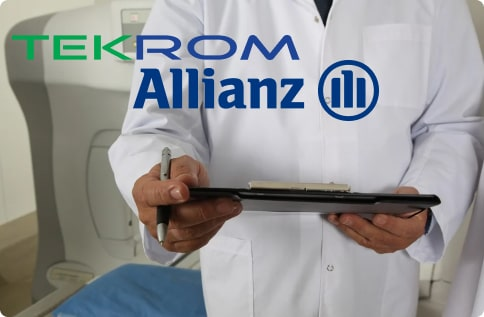
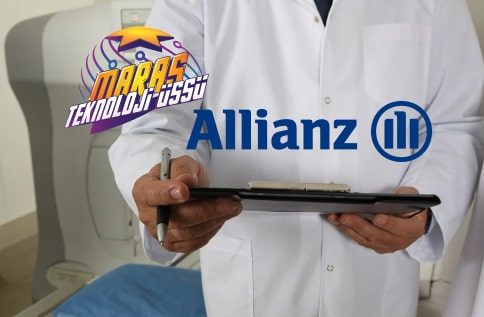
from tekrom to techbase and image changement

diff --git a/demo.html b/demo.html
@@ -143,7 +143,7 @@
                                         <span class="title-line">Ekonomik</span>
                                         <span class="title-line">Yaşam</span>
                                         <p class="slide-desc">
-                                            Çevre illere ve ülke geneline göre Kahramanmaraş'ta yaşam daha kolay ve uygundur. <a href="https://www.numbeo.com/cost-of-living/in/Kahramanmaras-Turkey">İnceleyiniz</a>
+                                            Çevre illere ve ülke geneline göre Kahramanmaraş'ta yaşam daha kolay ve uygundur. <a href="https://www.numbeo.com/cost-of-living/in/Kahramanmaras-Turkey" class="text-secondary text-decoration-underline" rel="nofollow">İnceleyiniz</a>
                                         </p>
                                     </div>
                                 </div>
@@ -246,7 +246,7 @@
                     <div class="text-center py-5">
                         <span class="fs-2 fw-500">Doğru Yerdesiniz</span>
                         <p class="fs-6 text-secondary">
-                            Kahramanmaraş’ta yazılan kodlar Silikon Vadisi’nden dünyaya açılıyor.
+                            Kahramanmaraş’ta geliştirilen yazılımlar Silikon Vadisi üzerinden dünyaya açılıyor.
                         </p>
                     </div>
                     <div class="row pb-5 maras-tech-bas-three">
@@ -869,8 +869,7 @@
                                data-caption="<div class='text-center col-12 col-md-6 mx-auto'>
                                             Doğu akdeniz bölgesinin en önemli teknoloji üssü olan ilimiz, bölgenin
                                             silikon vadisi olma yolundadır.
-                                            E-ticaretten veri madenciliğine kadar bir çok teknoloji TEKROM bünyesinde
-                                            Kahramanmaraş’ta üretilmektedir.
+                                            E-ticaretten veri madenciliğine kadar bir çok teknoloji Maraş Teknoloji Üssü'nde üretilmektedir.
                                             </div>">
                                 <div class="rounded-3 shadow-soft content-card my-3">
                                     <div class="content-image">
@@ -885,8 +884,7 @@
                                         <p class="mb-0 text-center text-secondary">
                                             Doğu akdeniz bölgesinin en önemli teknoloji üssü olan ilimiz, bölgenin
                                             Silikon Vadisi olma yolundadır.
-                                            E-ticaretten veri madenciliğine kadar bir çok teknoloji TEKROM bünyesinde
-                                            Kahramanmaraş’ta üretilmektedir.
+                                            E-ticaretten veri madenciliğine kadar bir çok teknoloji Maraş Teknoloji Üssü'nde üretilmektedir.
                                         </p>
                                         <strong class="read-more">Devamını Oku...</strong>
                                     </div>
@@ -1155,7 +1153,7 @@
                                 +3000 site, +250 mobil uygulama (+2M mobil kullanıcı)
                             </div>
                             <div class="mb-2 rounded-bottom p-3 text-center shadow-one-side-only">
-                                TEKROM ekosistemi içerisinde faaliyet gösteren 20 start-up kıvamında yazılım ürünü,
+                                Maraş Teknoloji Üssü ekosistemi içerisinde faaliyet gösteren +20 start-up kıvamında yazılım ürünü,
                                 +3000 e-ticaret sitesi, +250 mobil uygulama ve +2.000.000 mobil kullanıcı ile bölgenin
                                 en büyük yazılım üreticisi olarak <strong>Kahramanmaraş</strong>'ta teknoloji üssünü
                                 konumlandırmıştır.
@@ -1613,8 +1611,7 @@
                                                 <span class="d-block fs-4 fw-500 mb-5">Eğitim ve Teknoloji</span>
                                                 <p>
                                                     Kahramanmaraş Sütçü İmam Üniversitesi ve İstiklal Üniversitesi'ndeki
-                                                    Bilgisayar Mühendisliği okuyan öğrenciler ve TEKROM gibi teknoloji
-                                                    firmalarında çalışan personeller sayesinde ilimiz bölgenin teknoloji
+                                                    Bilgisayar Mühendisliği okuyan öğrenciler ve Maraş Teknoloji Üssü'nde çalışan personeller sayesinde ilimiz bölgenin teknoloji
                                                     üretim merkezi haline gelmiştir.
                                                 </p>
                                             </div>
@@ -1950,7 +1947,7 @@
                                             <img loading="lazy"
                                                  src="assets/images/content/home/technology/tech-loading.svg"
                                                  data-src="assets/images/content/home/technology/ofis-1-min.jpg"
-                                                 alt="TEKROM ofis"
+                                                 alt="Maraş Teknoloji Üssü Ofis"
                                                  class="lazyload w-100 object-fit-cover rounded-3 shadow-one-side-only">
                                         </a>
                                     </div>
@@ -1959,7 +1956,7 @@
                                            data-fancybox="future-of-technology">
                                             <img loading="lazy" src="assets/images/content/home/technology/tech-loading.svg"
                                                  data-src="assets/images/content/home/technology/ofis-2-min.jpg"
-                                                 alt="TEKROM ofis"
+                                                 alt="Maraş Teknoloji Üssü Ofis"
                                                  class="lazyload w-100 object-fit-cover rounded-3 shadow-one-side-only">
                                         </a>
                                     </div>
@@ -1969,7 +1966,7 @@
                                             <img loading="lazy"
                                                  src="assets/images/content/home/technology/tech-horizontal-image-loading.svg"
                                                  data-src="assets/images/content/home/technology/ofis-3-min.jpg"
-                                                 alt="TEKROM ofis"
+                                                 alt="Maraş Teknoloji Üssü Ofis"
                                                  class="lazyload w-100 object-fit-cover rounded-3 shadow-one-side-only">
                                         </a>
                                     </div>
@@ -1981,7 +1978,7 @@
                                             <img loading="lazy"
                                                  src="assets/images/content/home/technology/tech-vertical-image-loading.svg"
                                                  data-src="assets/images/content/home/technology/ofis-4-min.jpg"
-                                                 alt="TEKROM ofis"
+                                                 alt="Maraş Teknoloji Üssü Ofis"
                                                  class="lazyload w-100 object-fit-cover rounded-3 shadow-one-side-only">
                                         </a>
                                     </div>
@@ -2004,9 +2001,9 @@
                                     <div class="life-in-marasteknolojiussu-information">
                                         <span class="life-in-marasteknolojiussu-title">Doğum Gününde İzin</span>
                                         <p class="life-in-marasteknolojiussu-explanation">
-                                            TEKROM çatısı altında bulunan a’dan z’ye herkes doya doya eğlensin ve ailesi
+                                            Maraş Teknoloji Üssü'nde bulunan a’dan z’ye herkes doya doya eğlensin ve ailesi
                                             ile mutlu bir gün geçirsin diye doğum gününde çalışma yasağı vardır. <br>
-                                            Tekromda çalışan herkes doğum gününde izinlidir ve kendine tatil ilan etme
+                                            Maraş Teknoloji Üssü'nde çalışan herkes doğum gününde izinlidir ve kendine tatil ilan etme
                                             yetkisi verilmektedir.
                                         </p>
                                     </div>
@@ -2070,7 +2067,7 @@
                                         <p class="life-in-marasteknolojiussu-explanation">
                                             Çayımız ve kahvemiz ofisimize gelen herkesi her sabah karşılar.
                                             Fakat bir gün remote çalışmak isterseniz dert etmeyin. İnternetin çektiği
-                                            her yer TEKROM çalışanları için ofistir. <br> Fakat ofisimizdeki internetin
+                                            her yer Maraş Teknoloji Üssü çalışanları için ofistir. <br> Fakat ofisimizdeki internetin
                                             hızına ve ofis imkanlarına alışınca eminiz ki evden çalışmak istemeyeceksiniz.
                                         </p>
                                     </div>
@@ -2089,7 +2086,7 @@
                                     <div class="life-in-marasteknolojiussu-information">
                                         <span class="life-in-marasteknolojiussu-title">Hızlı ve Çoklu İnternet</span>
                                         <p class="life-in-marasteknolojiussu-explanation">
-                                            Tekromda herşey gibi internet de yedeklendirilmiş ve renklendirilmiştir.
+                                            Maraş Teknoloji Üssü'nde herşey gibi internet de yedeklendirilmiş ve renklendirilmiştir.
                                             Farklı platformlardan sağlanan internet sayesinde hem çok hızlı internete
                                             sahip olurken hem de çoklu sunulan internet sayesinde veri akışının
                                             sürekliği sağlanmaktadır.
@@ -2110,7 +2107,7 @@
                                     <div class="life-in-marasteknolojiussu-information">
                                         <span class="life-in-marasteknolojiussu-title">10 Ofis</span>
                                         <p class="life-in-marasteknolojiussu-explanation">
-                                            TEKROM çalışanlarının rahat bir ortamda çalışabilmeleri için 10’un üzerinde
+                                            Maraş Teknoloji Üssü çalışanlarının rahat bir ortamda çalışabilmeleri için 10’un üzerinde
                                             ofis konforlu bir ortam olarak hazırlanmıştır. Oluşturulan konfor sayesinde
                                             kışın sıcak yazın serin ofislerimizde kod yazmaktan kendinizi
                                             alamayacaksınız.
@@ -2132,7 +2129,7 @@
                                         <span class="life-in-marasteknolojiussu-title">8 Toplantı Salonu</span>
                                         <p class="life-in-marasteknolojiussu-explanation">
                                             Toplantıların, derslerin ve sunumların sorunsuz bir şekilde işleyebilmesi
-                                            için TEKROM çatısı altında dev televizyon, kablolu
+                                            için Maraş Teknoloji Üssü çatısı altında dev televizyon, kablolu
                                             ve kablosuz internetleriyle 8 adet toplantı salonu  kullanıma açık vaziyettedir.
                                         </p>
                                     </div>
@@ -2151,7 +2148,7 @@
                                     <div class="life-in-marasteknolojiussu-information">
                                         <span class="life-in-marasteknolojiussu-title">+700m<sup>2</sup> Tesis</span>
                                         <p class="life-in-marasteknolojiussu-explanation">
-                                            TEKROM Anadolu Ar-Ge Merkezi’nde 120’nin üzerinde çalışanımızın daha güzel
+                                            Maraş Teknoloji Üssü'nde 120’nin üzerinde çalışanımızın daha güzel
                                             ve konforlu bir alanda vakit geçirebilmesi için 700m<sup>2</sup>’den daha fazla bir
                                             alan çalışma ortamı olarak hizmete sunulmuştur. <br>
                                              Mini golf sahası, kahve
@@ -2471,7 +2468,7 @@
                     <div class="container mt-5 pt-5 text-center awards-area-text">
                         <h6 class="fs-4 text-white">ÖDÜLLER</h6>
                         <p class="mb-0 pb-5 border-5 border-white border-start border-end border-top rounded-top pt-5 text-white">
-                            TEKROM Teknoloji A.Ş. Deloitte Fast 50 yarışmasında 2013-2020 yılları arasında 7 kez en
+                            Maraş Teknoloji Üssü firmaları Deloitte Fast 50 yarışmasında 2013-2020 yılları arasında 7 kez en
                             hızlı yükselen teknoloji firması arasına girmeyi başarmıştır.
                         </p>
                     </div>
@@ -2586,7 +2583,7 @@
 
             <section>
                 <div class="container maras-tech-offices my-5" id="iletisim">
-                    <div class="accordion" id="accordionTekromContact">
+                    <div class="accordion" id="accordionTechBaseContact">
                         <div class="accordion-item">
                             <h2 class="accordion-header">
                                 <button class="accordion-button collapsed" type="button" data-bs-toggle="collapse"
@@ -2601,7 +2598,7 @@
                                        data-caption="Esentepe Mahallesi, Haberler Sk. No:13 ŞİŞLİ / İSTANBUL">
                                         <img loading="lazy" src="assets/images/default-content-image.png"
                                              data-src="assets/images/content/home/offices/genel-mudurluk.jpg"
-                                             class="lazyload img-fluid rounded-circle" alt="Kahramanmaraş Tekrom">
+                                             class="lazyload img-fluid rounded-circle" alt="Kahramanmaraş Maraş Teknoloji Üssü">
                                     </a>
                                     <address class="m-0">
                                         Esentepe Mahallesi, Haberler Sk. No:13<br/>
@@ -2677,7 +2674,7 @@
                                        data-caption="KSÜ Avşar Kampüsü Teknokent Bina No:259 Kat:2 No:41 ONİKİŞUBAT / KAHRAMANMARAŞ">
                                         <img loading="lazy" src="assets/images/default-content-image.png"
                                              data-src="assets/images/content/home/offices/maras-teknokent.jpg"
-                                             class="lazyload img-fluid rounded-circle" alt="Kahramanmaraş Tekrom">
+                                             class="lazyload img-fluid rounded-circle" alt="Kahramanmaraş Maraş Teknoloji Üssü">
                                     </a>
                                     <address class="m-0">
                                         KSÜ Avşar Kampüsü Teknokent Bina No:259 Kat:2 No:41<br/>
@@ -2774,21 +2771,36 @@
         <section>
             <div class="container footer-bottom">
                 <div class="row">
+                  
                     <div class="col-lg-4 col-12 p-3 d-flex align-items-center justify-content-center justify-content-lg-start mobile-text-center">
+                        <span class="text-center">
+                             <a href="tel:+902124800048" class="d-inline-block text-secondary pr-1" title="0 (212) 480 00 48">
+                                <img loading="lazy" src="assets/images/default-content-image.png"
+                                data-src="assets/images/content/home/other/phone.svg" class="lazyload mr-1"
+                                alt="telefon">     
+                                Bizi Ara                            
+                                
+                            
+                            </a>
+                        
+                            <a href="javascript:void(0);" class="d-inline-block text-secondary px-3" data-mail>
+                                <img loading="lazy" src="assets/images/default-content-image.png"
+                                data-src="assets/images/content/home/other/mail.svg" class="lazyload mr-1"
+                                alt="telefon">  
+                                
+                                Bize Katıl
+                            
+                            </a>
+                        </span>
+                    </div>
+                    <div class="col-lg-4 col-12 p-3 d-flex align-items-center justify-content-center mobile-text-center order-1 order-md-0">
                         <span>
                             © 2021 - Tüm hakları saklıdır.
                         </span>
                     </div>
-                    <div class="col-lg-5 col-12 p-3 d-flex align-items-center justify-content-center justify-content-lg-start mobile-text-center">
-                        <span class="text-center">
-                             <a href="tel:+902124800048" class="d-inline-block fw-bold mt-1">0 (212) 480 00 48</a>
-                             <br>
-                            <a href="javascript:void(0);" class="d-inline-block fw-bold mt-1" data-mail>kariyer@marasteknolojiussu.com</a>
-                        </span>
-                    </div>
 
 
-                    <div class="col-xxl-3 col-xl-3 col-lg-3 col-md-12 col-sm-12 col-12 d-flex align-items-center justify-content-center justify-content-lg-end">
+                    <div class="col-lg-4 col-lg-3 col-md-12 col-sm-12 col-12 d-flex align-items-center justify-content-center justify-content-lg-end">
 
                         <a href="https://www.linkedin.com/in/marasteknolojiussu/" class="p-3">
                             <img loading="lazy" src="assets/images/default-content-image.png"

diff --git a/404.html b/404.html
@@ -139,7 +139,7 @@
 
                                 <h1 class="d-block fs-3 text-center " id="content-0">Aradığınız sayfası bulamadık :(</h1>
                                 <div class="p-2 p-md-5 d-flex justify-content-center align-items-center">
-                                    <a href="/" class="btn  btn-lg btn-technology">Ana Sayfaya Git</a>
+                                    <a href="/" class="btn btn-lg btn-technology">Ana Sayfaya Git</a>
 
                                 </div>
 
@@ -173,7 +173,7 @@
 
         <section>
             <div class="container maras-tech-offices my-5" id="iletisim">
-                <div class="accordion" id="accordionTekromContact">
+                <div class="accordion" id="accordionTechBaseContact">
                     <div class="accordion-item">
                         <h2 class="accordion-header">
                             <button class="accordion-button collapsed" type="button" data-bs-toggle="collapse"

diff --git a/kariyer.html b/kariyer.html
@@ -299,7 +299,7 @@
 
             <section>
                 <div class="container maras-tech-offices my-5" id="iletisim">
-                    <div class="accordion" id="accordionTekromContact">
+                    <div class="accordion" id="accordionTechBaseContact">
                         <div class="accordion-item">
                             <h2 class="accordion-header">
                                 <button class="accordion-button collapsed" type="button" data-bs-toggle="collapse"

diff --git a/hakkimizda.html b/hakkimizda.html
@@ -199,7 +199,7 @@
 
         <section>
             <div class="container maras-tech-offices my-5" id="iletisim">
-                <div class="accordion" id="accordionTekromContact">
+                <div class="accordion" id="accordionTechBaseContact">
                     <div class="accordion-item">
                         <h2 class="accordion-header">
                             <button class="accordion-button collapsed" type="button" data-bs-toggle="collapse"

diff --git a/nasil-analist-olunur.html b/nasil-analist-olunur.html
@@ -169,7 +169,7 @@
 
         <section>
             <div class="container maras-tech-offices my-5" id="iletisim">
-                <div class="accordion" id="accordionTekromContact">
+                <div class="accordion" id="accordionTechBaseContact">
                     <div class="accordion-item">
                         <h2 class="accordion-header">
                             <button class="accordion-button collapsed" type="button" data-bs-toggle="collapse"

diff --git a/nasil-backend-developer-olunur.html b/nasil-backend-developer-olunur.html
@@ -168,7 +168,7 @@
 
         <section>
             <div class="container maras-tech-offices my-5" id="iletisim">
-                <div class="accordion" id="accordionTekromContact">
+                <div class="accordion" id="accordionTechBaseContact">
                     <div class="accordion-item">
                         <h2 class="accordion-header">
                             <button class="accordion-button collapsed" type="button" data-bs-toggle="collapse"

diff --git a/nasil-devops-olunur.html b/nasil-devops-olunur.html
@@ -169,7 +169,7 @@
 
         <section>
             <div class="container maras-tech-offices my-5" id="iletisim">
-                <div class="accordion" id="accordionTekromContact">
+                <div class="accordion" id="accordionTechBaseContact">
                     <div class="accordion-item">
                         <h2 class="accordion-header">
                             <button class="accordion-button collapsed" type="button" data-bs-toggle="collapse"

diff --git a/nasil-frontend-developer-olunur.html b/nasil-frontend-developer-olunur.html
@@ -664,7 +664,7 @@
 
         <section>
             <div class="container maras-tech-offices my-5" id="iletisim">
-                <div class="accordion" id="accordionTekromContact">
+                <div class="accordion" id="accordionTechBaseContact">
                     <div class="accordion-item">
                         <h2 class="accordion-header">
                             <button class="accordion-button collapsed" type="button" data-bs-toggle="collapse"

diff --git a/nasil-mobil-app-developer-olunur.html b/nasil-mobil-app-developer-olunur.html
@@ -169,7 +169,7 @@
 
         <section>
             <div class="container maras-tech-offices my-5" id="iletisim">
-                <div class="accordion" id="accordionTekromContact">
+                <div class="accordion" id="accordionTechBaseContact">
                     <div class="accordion-item">
                         <h2 class="accordion-header">
                             <button class="accordion-button collapsed" type="button" data-bs-toggle="collapse"

diff --git a/nasil-php-developer-olunur.html b/nasil-php-developer-olunur.html
@@ -225,7 +225,7 @@
 
         <section>
             <div class="container maras-tech-offices my-5" id="iletisim">
-                <div class="accordion" id="accordionTekromContact">
+                <div class="accordion" id="accordionTechBaseContact">
                     <div class="accordion-item">
                         <h2 class="accordion-header">
                             <button class="accordion-button collapsed" type="button" data-bs-toggle="collapse"

diff --git a/nasil-tasarim-uzmani-olunur.html b/nasil-tasarim-uzmani-olunur.html
@@ -170,7 +170,7 @@
 
         <section>
             <div class="container maras-tech-offices my-5" id="iletisim">
-                <div class="accordion" id="accordionTekromContact">
+                <div class="accordion" id="accordionTechBaseContact">
                     <div class="accordion-item">
                         <h2 class="accordion-header">
                             <button class="accordion-button collapsed" type="button" data-bs-toggle="collapse"

diff --git a/assets/scss/style.scss b/assets/scss/style.scss
@@ -62,10 +62,14 @@ body {
   min-height: 100vh;
   border-top: 4px solid var(--color-border-top);
 }
+a{
+  color:var(--color-main-one)
+}
 a,
 a:hover,
 a:focus {
   text-decoration: none;
+
 }
 .font-family-main {
   font-family: var(--font-family-main);
